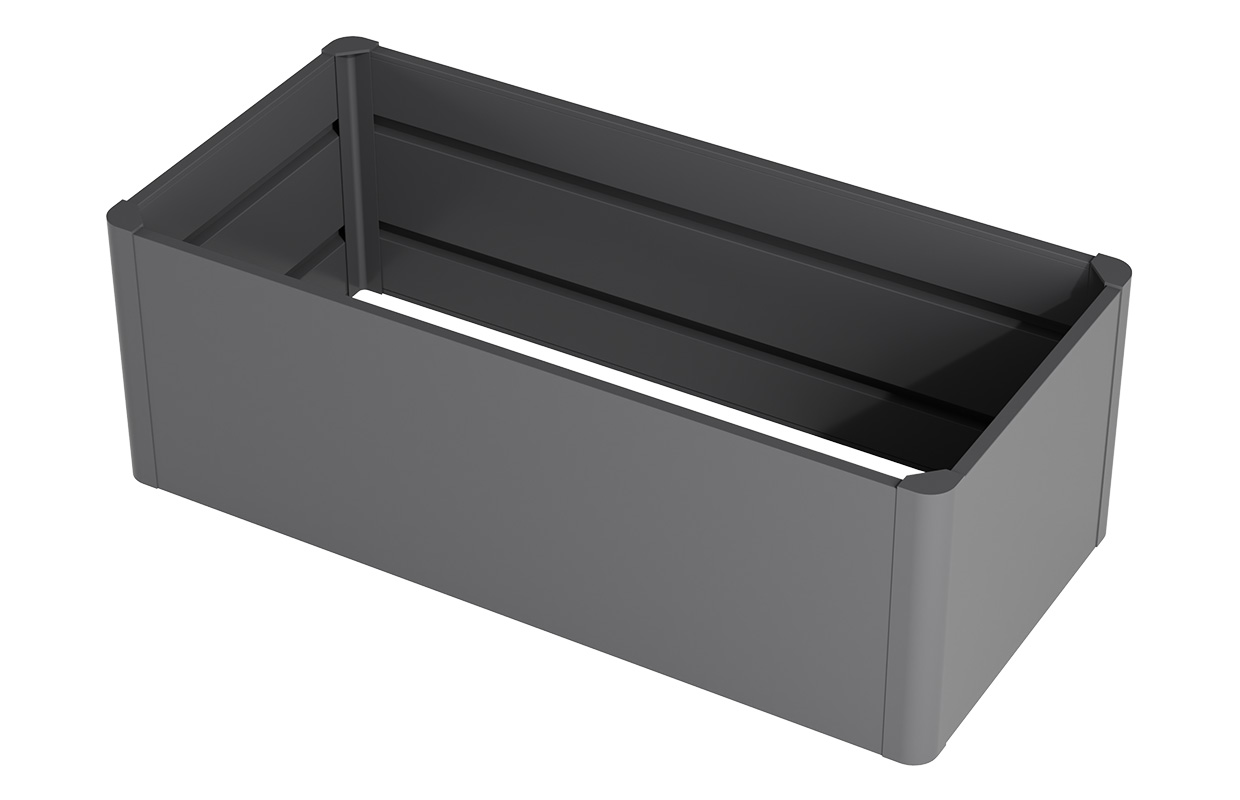
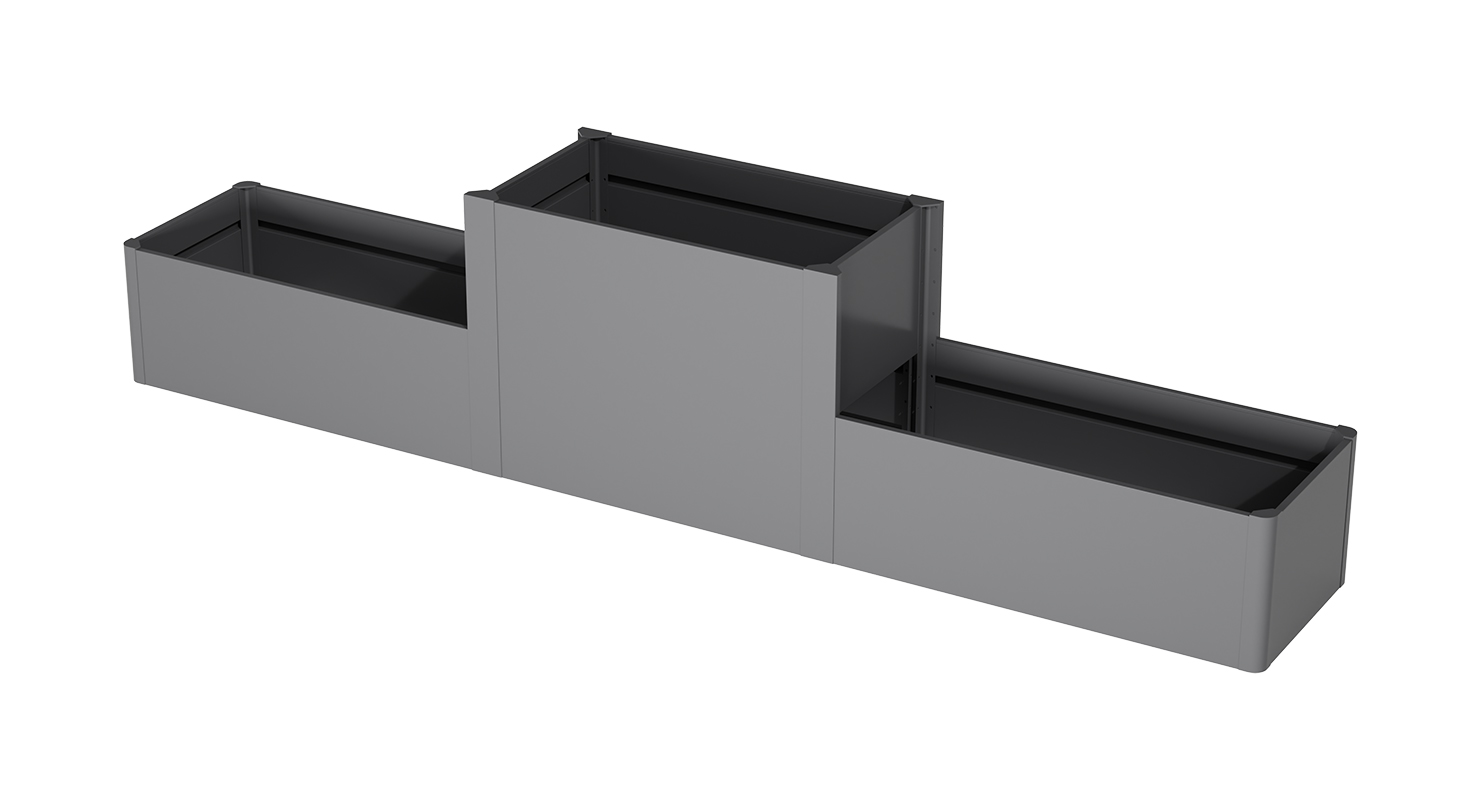
Publish product: Raised Garden Bed FGM-P8C8D-H82

diff --git a/data/productLines/raisedGardenBeds.ts b/data/productLines/raisedGardenBeds.ts
@@ -332,133 +332,6 @@ export const raisedGardenBedProducts: ProductItem[] = [
     ],
   },
 {
-    slug: "raised-garden-bed-fgm-p8c8d-h82",
-    title: "Raised Garden Bed FGM-P8C8D-H82",
-    category: "Raised Garden Bed",
-    template: "standard",
-    subtitle: "FGM-P8C8D-H82 for outdoor projects and wholesale supply.",
-    description: "Factory direct raised garden bed solution for home gardens, retail channels and landscape projects, with options for size, color, panel style, carton packing and private label support.",
-    image: "/images/products/raised-garden-bed/raised-garden-bed-fgm-p8c8d-h82/product-card/card.jpg",
-    gallery: [
-      "/images/products/raised-garden-bed/raised-garden-bed-fgm-p8c8d-h82/detail-carousel/01-gaf00fd-p6c4j-h43-1600x1000-1.jpg",
-      "/images/products/raised-garden-bed/raised-garden-bed-fgm-p8c8d-h82/detail-carousel/02-gaf00fd-p6c4j-h43-1600x1000-2.jpg",
-      "/images/products/raised-garden-bed/raised-garden-bed-fgm-p8c8d-h82/detail-carousel/03-gaf00fd-p6c4j-h43-1600x1000-3.jpg",
-      "/images/products/raised-garden-bed/raised-garden-bed-fgm-p8c8d-h82/detail-carousel/04-gaf00fd-p6c4j-h43-1600x1000-4.jpg",
-    ],
-    highlights: [
-      "Galvanized Steel",
-      "300 x 65 x 80 cm",
-      "Carton",
-      "OEM & ODM support",
-    ],
-    applications: [
-      "Backyard & Garden",
-      "Residential",
-      "Public & Landscape",
-    ],
-    materials: [
-      "Galvanized Steel",
-    ],
-    customization: [
-      "Custom Size",
-      "Custom Color",
-      "Packaging",
-    ],
-    oemSupport: [
-      "Private Label",
-      "Packaging",
-    ],
-    cardModel: "FGM-P8C8D-H82",
-    cardSize: "300 x 65 x 80 cm",
-    cardCbm: "1.5600 m³",
-    moq: "100pcs",
-    grossWeight: "15",
-    netWeight: "13",
-    packing: "Carton",
-    status: "published",
-    productDescription: [
-      [
-        "Item Number",
-        "FGM-P8C8D-H82",
-      ],
-      [
-        "Product Name",
-        "Raised Garden Bed FGM-P8C8D-H82",
-      ],
-      [
-        "Material",
-        "Galvanized Steel",
-      ],
-      [
-        "Overall Size",
-        "300 x 65 x 80 cm or Customized",
-      ],
-      [
-        "Color",
-        "Customized",
-      ],
-      [
-        "Packing",
-        "Carton",
-      ],
-      [
-        "MOQ",
-        "100pcs",
-      ],
-      [
-        "Gross Weight",
-        "15 kg",
-      ],
-      [
-        "Net Weight",
-        "13 kg",
-      ],
-      [
-        "CBM",
-        "1.5600 m³",
-      ],
-    ],
-    faqs: [
-      [
-        "Can I customize the size?",
-        "Yes. Send us your required length, width, height or technical drawing, and we can prepare a custom raised garden bed plan.",
-      ],
-      [
-        "Can I choose the color and panel style?",
-        "Yes. Color, panel style, panel height and surface finish can be selected according to your market needs.",
-      ],
-      [
-        "Do you support OEM packaging?",
-        "Yes. We can support neutral packing, branded labels, instruction sheets, cartons and retail packaging for bulk orders.",
-      ],
-      [
-        "What information is needed for quotation?",
-        "Please provide size, quantity, destination country, material preference, finish color and any reference image or drawing.",
-      ],
-      [
-        "Can you supply for project orders?",
-        "Yes. We support retail, residential and landscape project supply with production coordination, packing and export delivery.",
-      ],
-    ],
-    relatedProducts: [
-      {
-        title: "Raised Garden Bed FC-C4C",
-        image: "/images/products/raised-garden-bed/raised-garden-bed-fc-c4c/product-card/card.webp",
-        slug: "raised-garden-bed-fc-c4c",
-      },
-      {
-        title: "Raised Garden Bed FC-P4C4J",
-        image: "/images/products/raised-garden-bed/raised-garden-bed-fc-p4c4j/product-card/card.webp",
-        slug: "raised-garden-bed-fc-p4c4j",
-      },
-      {
-        title: "Raised Garden Bed FC-P4C4J",
-        image: "/images/products/raised-garden-bed/raised-garden-bed-fc-p4c4j/product-card/card.webp",
-        slug: "raised-garden-bed-fc-p4c4j",
-      },
-    ],
-  },
-{
     slug: "gcf02ft-p8r4j-h47",
     title: "Raised Garden Bed GCF02FT-P8R4J-H47",
     category: "Raised Garden Bed",
@@ -582,6 +455,132 @@ export const raisedGardenBedProducts: ProductItem[] = [
         title: "Raised Garden Bed FGM-P8C8D-H82",
         image: "/images/products/raised-garden-bed/raised-garden-bed-fgm-p8c8d-h82/product-card/card.jpg",
         slug: "raised-garden-bed-fgm-p8c8d-h82",
+      },
+    ],
+  },
+{
+    slug: "raised-garden-bed-fgm-p8c8d-h82",
+    title: "Raised Garden Bed FGM-P8C8D-H82",
+    category: "Raised Garden Bed",
+    template: "standard",
+    subtitle: "FGM-P8C8D-H82 for outdoor projects and wholesale supply.",
+    description: "Factory direct raised garden bed solution for home gardens, retail channels and landscape projects, with options for size, color, panel style, carton packing and private label support.",
+    image: "/images/products/raised-garden-bed/raised-garden-bed-fgm-p8c8d-h82/product-card/card.jpg",
+    gallery: [
+      "/images/products/raised-garden-bed/raised-garden-bed-fgm-p8c8d-h82/detail-carousel/01-fgm-p8c8d-h82-1600x1000-1.jpg",
+      "/images/products/raised-garden-bed/raised-garden-bed-fgm-p8c8d-h82/detail-carousel/02-fgm-p8c8d-h82-1600x1000-2.jpg",
+      "/images/products/raised-garden-bed/raised-garden-bed-fgm-p8c8d-h82/detail-carousel/03-fgm-p8c8d-h82-1600x1000-3.jpg",
+      "/images/products/raised-garden-bed/raised-garden-bed-fgm-p8c8d-h82/detail-carousel/04-fgm-p8c8d-h82-1600x1000-4.jpg",
+    ],
+    highlights: [
+      "Galvanized Steel",
+      "300 x 65 x 80 cm",
+      "Carton",
+      "OEM & ODM support",
+    ],
+    applications: [
+      "Backyard & Garden",
+      "Residential",
+      "Public & Landscape",
+    ],
+    materials: [
+      "Galvanized Steel",
+    ],
+    customization: [
+      "Custom Size",
+      "Custom Color",
+      "Packaging",
+    ],
+    oemSupport: [
+      "Private Label",
+      "Packaging",
+    ],
+    cardModel: "FGM-P8C8D-H82",
+    cardSize: "300 x 65 x 80 cm",
+    moq: "100pcs",
+    grossWeight: "15",
+    netWeight: "13",
+    packing: "Carton",
+    status: "published",
+    productDescription: [
+      [
+        "Item Number",
+        "FGM-P8C8D-H82",
+      ],
+      [
+        "Product Name",
+        "Raised Garden Bed FGM-P8C8D-H82",
+      ],
+      [
+        "Material",
+        "Galvanized Steel",
+      ],
+      [
+        "Overall Size",
+        "300 x 65 x 80 cm or Customized",
+      ],
+      [
+        "Color",
+        "Customized",
+      ],
+      [
+        "Packing",
+        "Carton",
+      ],
+      [
+        "MOQ",
+        "100pcs",
+      ],
+      [
+        "Gross Weight",
+        "15 kg",
+      ],
+      [
+        "Net Weight",
+        "13 kg",
+      ],
+      [
+        "CBM",
+        "1.5600 m³",
+      ],
+    ],
+    faqs: [
+      [
+        "Can I customize the size?",
+        "Yes. Send us your required length, width, height or technical drawing, and we can prepare a custom raised garden bed plan.",
+      ],
+      [
+        "Can I choose the color and panel style?",
+        "Yes. Color, panel style, panel height and surface finish can be selected according to your market needs.",
+      ],
+      [
+        "Do you support OEM packaging?",
+        "Yes. We can support neutral packing, branded labels, instruction sheets, cartons and retail packaging for bulk orders.",
+      ],
+      [
+        "What information is needed for quotation?",
+        "Please provide size, quantity, destination country, material preference, finish color and any reference image or drawing.",
+      ],
+      [
+        "Can you supply for project orders?",
+        "Yes. We support retail, residential and landscape project supply with production coordination, packing and export delivery.",
+      ],
+    ],
+    relatedProducts: [
+      {
+        title: "Raised Garden Bed FC-C4C",
+        image: "/images/products/raised-garden-bed/raised-garden-bed-fc-c4c/product-card/card.webp",
+        slug: "raised-garden-bed-fc-c4c",
+      },
+      {
+        title: "Raised Garden Bed FC-P4C4J",
+        image: "/images/products/raised-garden-bed/raised-garden-bed-fc-p4c4j/product-card/card.webp",
+        slug: "raised-garden-bed-fc-p4c4j",
+      },
+      {
+        title: "Raised Garden Bed GCF02FT-P8R4J-H47",
+        image: "/images/products/raised-garden-bed/gcf02ft-p8r4j-h47/product-card/card.jpg",
+        slug: "gcf02ft-p8r4j-h47",
       },
     ],
   },
